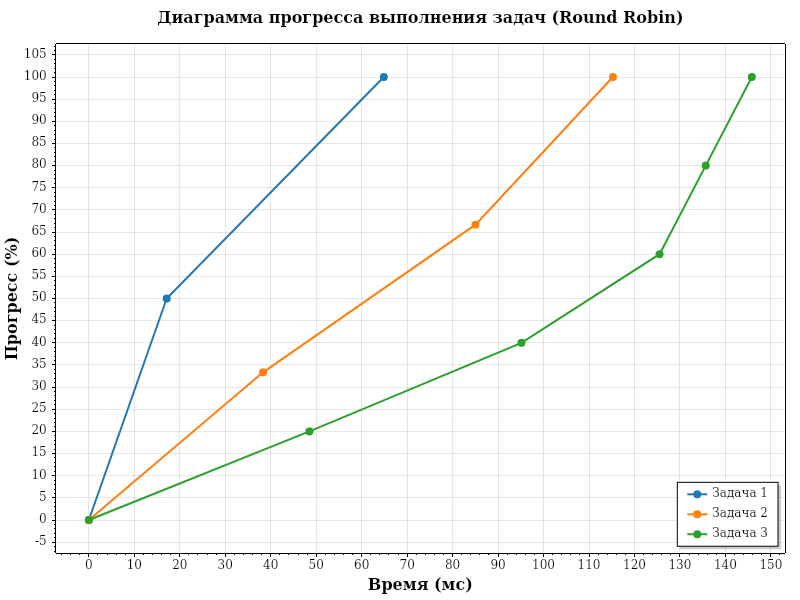
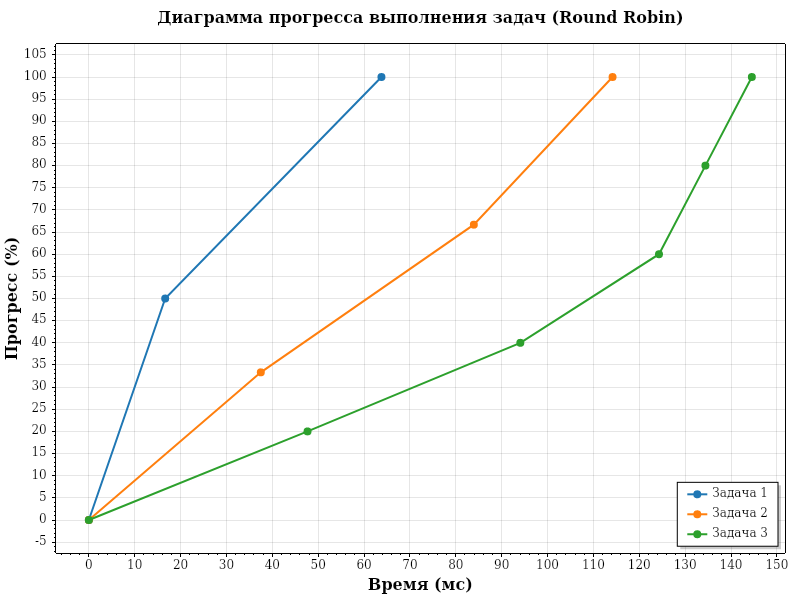
fix(scheduler): resolve compiler warnings and refactor magic numbers in tests

diff --git a/task18tests/SchedulerTests.cs b/task18tests/SchedulerTests.cs
@@ -12,6 +12,10 @@ namespace task18tests;
 
 public class SchedulerTests
 {
+    private const int ThreadJoinTimeoutMs = 2000;
+    private const int ImageWidth = 800;
+    private const int ImageHeight = 600;
+
     private class TestLongCommand : ILongCommand
     {
         private readonly string _name;
@@ -84,7 +88,7 @@ public class SchedulerTests
 
         server.Start();
         
-        bool joined = server.Thread.Join(2000);
+        bool joined = server.Thread.Join(ThreadJoinTimeoutMs);
         Assert.True(joined);
 
         Assert.Equal(new[] { "A-1", "B-1", "A-2", "B-2", "A-3" }, executionLog);
@@ -108,7 +112,7 @@ public class SchedulerTests
 
         server.Start();
         
-        bool joined = server.Thread.Join(2000);
+        bool joined = server.Thread.Join(ThreadJoinTimeoutMs);
         Assert.True(joined);
 
         Assert.Contains("A-1", executionLog);
@@ -139,7 +143,7 @@ public class SchedulerTests
         server.Queue.Add(new SoftStopCommand(server));
 
         server.Start();
-        bool joined = server.Thread.Join(2000);
+        bool joined = server.Thread.Join(ThreadJoinTimeoutMs);
         Assert.True(joined);
 
         var plot = new Plot();
@@ -193,7 +197,7 @@ public class SchedulerTests
 
         string filePathPNG = Path.Combine(AppContext.BaseDirectory, "..", "..", "..", "..", "progress_chart.png");
         string filePathTXT = Path.Combine(AppContext.BaseDirectory, "..", "..", "..", "..", "report.txt");
-        plot.SavePng(filePathPNG, 800, 600);
+        plot.SavePng(filePathPNG, ImageWidth, ImageHeight);
 
         using (var writer = new StreamWriter(filePathTXT))
         {

diff --git a/task17/ServerThread.cs b/task17/ServerThread.cs
@@ -71,7 +71,7 @@ public class ServerThread
             {
                 command.Execute();
 
-                if (command is ILongCommand longCommand && !longCommand.IsCompleted)
+                if (_scheduler != null && command is ILongCommand longCommand && !longCommand.IsCompleted)
                 {
                     _scheduler.Add(command);
                 }
@@ -118,7 +118,7 @@ public class ServerThread
                 {
                     command.Execute();
 
-                    if (command is ILongCommand longCommand && !longCommand.IsCompleted)
+                    if (_scheduler != null && command is ILongCommand longCommand && !longCommand.IsCompleted)
                     {
                         _scheduler.Add(command);
                     }
